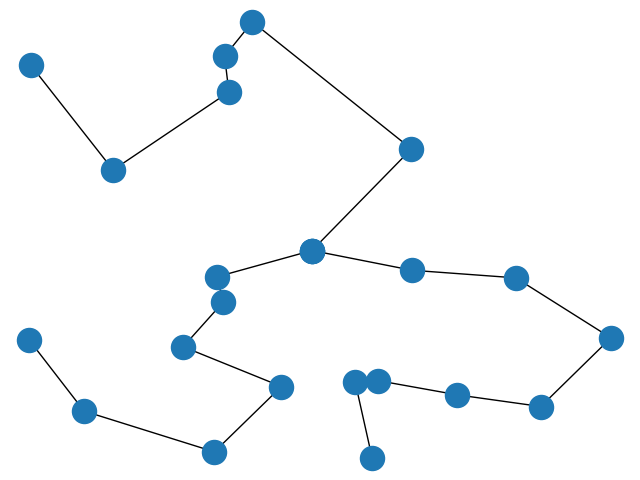
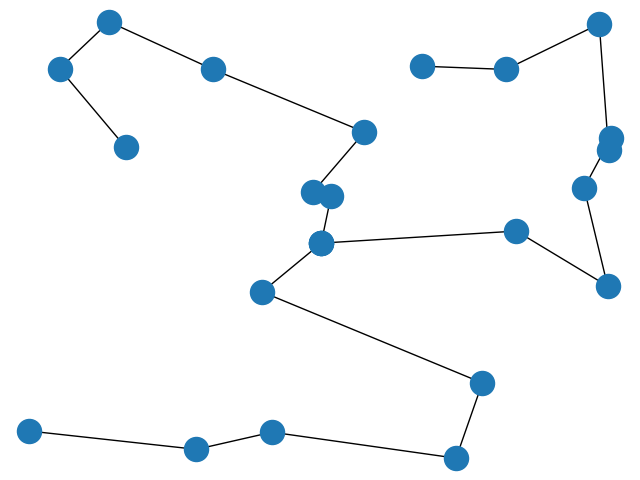
Printing all the graphs in one graph, calculating how long each child time travel

diff --git a/main.py b/main.py
@@ -291,12 +291,7 @@ def calculate_time_cost_per_group(list_of_children, car, school_address):
     nx.draw(G, pos)
     plt.savefig('G' + str(gv.group_number) + '.png')
     #Saving ths graph in global var
-    if gv.group_number == 0:
-        gv.G0 = G
-    if gv.group_number == 1:
-        gv.G1 = G
-    if gv.group_number == 2:
-        gv.G2 = G
+    gv.graphs_list.append(G)
     # To delete all the nodes and edges
     plt.clf()
 
@@ -322,7 +317,7 @@ enter_random_point(number_of_children, data_file)
 for number_row in range(2, number_of_children + 2):
     ch = Child(child_sheet, number_row)
     ch.id = number_row - 2
-    gv.list_of_all_children.insert((number_row - 2), (ch))
+    gv.list_of_all_children.insert((number_row - 2), ch)
 
 # Reading from excel file from Car table
 cars_sheet = excel_file.worksheets[2]
@@ -382,10 +377,11 @@ for i in range(length):
     calculate_time_cost_per_group(divide_list_of_children[i], gv.list_of_cars[i], gv.list_of_school[0].address)
 
 #Plot graph which contains all the graphs of all the path
-GT = nx.disjoint_union(gv.G0, gv.G1)
-GTT = nx.disjoint_union(GT, gv.G2)
-pos = nx.get_node_attributes(GTT, 'pos')
-nx.draw(GTT, pos)
+GT = nx.Graph()
+for i in range(len(gv.graphs_list)):
+    GT = nx.disjoint_union(GT, gv.graphs_list[i])
+pos = nx.get_node_attributes(GT, 'pos')
+nx.draw(GT, pos)
 plt.savefig('GT.png')
 # To delete all the nodes and edges
 plt.clf()

diff --git a/global_variables.py b/global_variables.py
@@ -16,6 +16,4 @@ group_number = 0
 # Contain all the clusters k_means return
 clusters = []
 
-G0=nx.Graph()
-G1=nx.Graph()
-G2=nx.Graph()
+graphs_list = []
